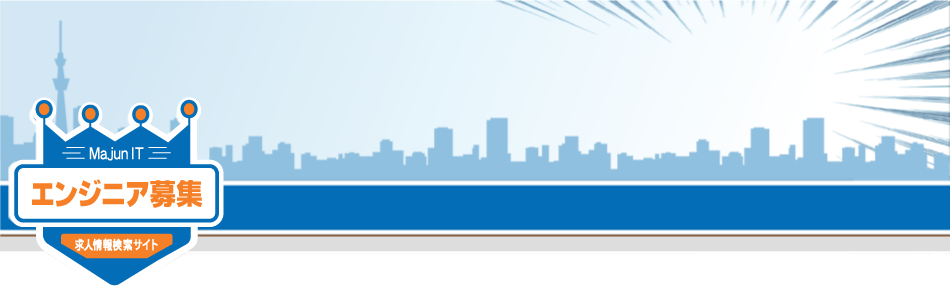
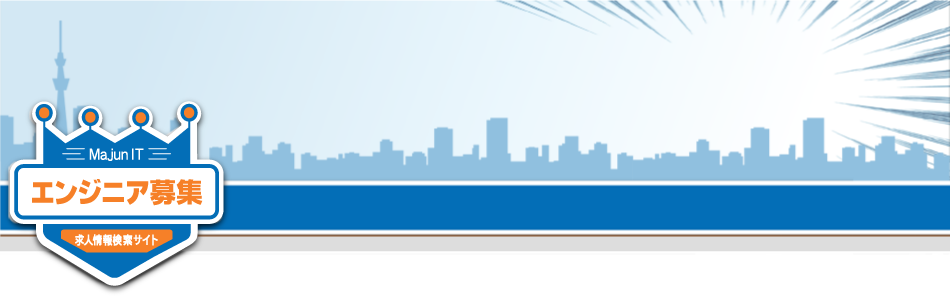
シーサーボタン修正

diff --git a/common/js/common.js b/common/js/common.js
@@ -81,18 +81,18 @@ $(function () {
     ////////////////////////////////////////////////////////////////////////////////////////////////////////////////////
     //画像ホバー
     $('a img,form :image,.pagetop img').hover(function(){
-        $(this).attr('src', $(this).attr('src').replace('_off', '_on'));
+        $(this).attr('src', $(this).attr('src').replace('_off2', '_on2'));
     }, function(){
         if (!$(this).hasClass('active')) {
-            $(this).attr('src', $(this).attr('src').replace('_on', '_off'));
+            $(this).attr('src', $(this).attr('src').replace('_on2', '_off2'));
         }
     }).each(function(){
-        if(String($(this).attr("src")).match(/_off\.(.*)$/)){
+        if(String($(this).attr("src")).match(/_off2\.(.*)$/)){
             var img = new Image();
-            img.src = String($(this).attr("src")).replace(/_off\.(.*)$/,"_on.$1");
-        }else if(String($(this).attr("src")).match(/_on\.(.*)$/)){
+            img.src = String($(this).attr("src")).replace(/_off2\.(.*)$/,"_on2.$1");
+        }else if(String($(this).attr("src")).match(/_on2\.(.*)$/)){
             var img = new Image();
-            img.src = String($(this).attr("src")).replace(/_on\.(.*)$/,"_off.$1");
+            img.src = String($(this).attr("src")).replace(/_on2\.(.*)$/,"_off2.$1");
         }
     });
     ////////////////////////////////////////////////////////////////////////////////////////////////////////////////////

diff --git a/common/js/common_bk.js b/common/js/common_bk.js
@@ -81,18 +81,18 @@ $(function () {
     ////////////////////////////////////////////////////////////////////////////////////////////////////////////////////
     //画像ホバー
     $('a img,form :image,.pagetop img').hover(function(){
-        $(this).attr('src', $(this).attr('src').replace('_off', '_on'));
+        $(this).attr('src', $(this).attr('src').replace('_off2', '_on2'));
     }, function(){
         if (!$(this).hasClass('active')) {
-            $(this).attr('src', $(this).attr('src').replace('_on', '_off'));
+            $(this).attr('src', $(this).attr('src').replace('_on2', '_off2'));
         }
     }).each(function(){
-        if(String($(this).attr("src")).match(/_off\.(.*)$/)){
+        if(String($(this).attr("src")).match(/_off2\.(.*)$/)){
             var img = new Image();
-            img.src = String($(this).attr("src")).replace(/_off\.(.*)$/,"_on.$1");
-        }else if(String($(this).attr("src")).match(/_on\.(.*)$/)){
+            img.src = String($(this).attr("src")).replace(/_off2\.(.*)$/,"_on2.$1");
+        }else if(String($(this).attr("src")).match(/_on2\.(.*)$/)){
             var img = new Image();
-            img.src = String($(this).attr("src")).replace(/_on\.(.*)$/,"_off.$1");
+            img.src = String($(this).attr("src")).replace(/_on2\.(.*)$/,"_off2.$1");
         }
     });
     ////////////////////////////////////////////////////////////////////////////////////////////////////////////////////

diff --git a/common/css/all.css b/common/css/all.css
@@ -57,7 +57,7 @@ body {
   #header .title {
     position: relative;
     height: 289px;
-    background: url("../images/hdrftr/header3.png") no-repeat; }
+    background: url("../images/hdrftr/header2.png") no-repeat; }
     #header .title .logo {
       position: absolute;
       right: 25px;
